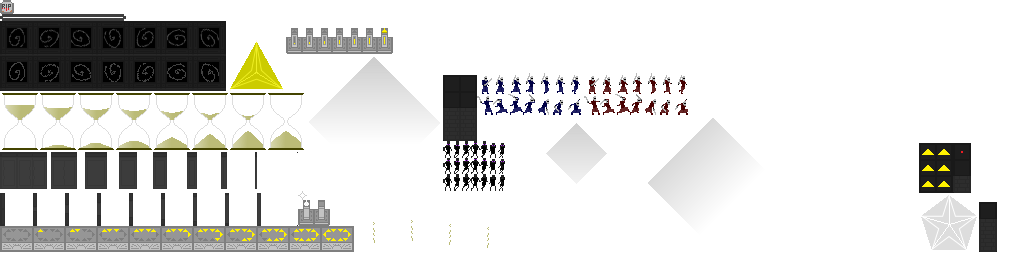
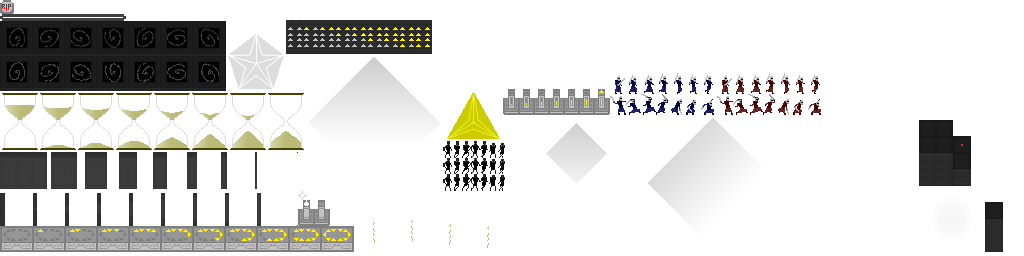
Added new graphics like a new carpet and different pedestal lights.

diff --git a/core/src/com/logicbytez/sanctuary/Assets.java b/core/src/com/logicbytez/sanctuary/Assets.java
@@ -24,7 +24,7 @@ public final class Assets{
 	public static TextureRegion texture_Altar, texture_Column, texture_Door, texture_Eidolon, texture_Gravestone, texture_HealthIndicator;
 	public static TextureRegion texture_Hourglass, texture_Sand, texture_HudCrystal, texture_HudSunstone;
 	public static TextureRegion texture_PadButton, texture_PadDiagonal, texture_PadOutline, texture_PadStraight;
-	public static TextureRegion texture_PauseBar, texture_PedestalCrystal, texture_PedestalStone, texture_PlayerBlue, texture_PlayerRed, texture_Portal;
+	public static TextureRegion texture_PauseBar, texture_PedestalCrystal, texture_PedestalCrystalLight, texture_PedestalStone, texture_PlayerBlue, texture_PlayerRed, texture_Portal;
 	public static TiledMap room_Antechamber_Up, room_Antechamber_Down, room_Antechamber_Left, room_Antechamber_Right, room_Sanctuary;
 	public static TiledMap room_Pedestal_Up, room_Pedestal_Down, room_Pedestal_Left, room_Pedestal_Right;
 
@@ -62,6 +62,7 @@ public final class Assets{
 		texture_PadStraight = atlas.findRegion("pad_straight");
 		texture_PauseBar = atlas.findRegion("pause_bar");
 		texture_PedestalCrystal = atlas.findRegion("pedestal_crystal");
+		texture_PedestalCrystalLight = atlas.findRegion("pedestal_crystal_light");
 		texture_PedestalStone = atlas.findRegion("pedestal_stone");
 		texture_PlayerBlue = atlas.findRegion("player_blue");
 		texture_PlayerRed = atlas.findRegion("player_red");

diff --git a/core/src/com/logicbytez/sanctuary/game/entities/objects/Pedestal_Crystal.java b/core/src/com/logicbytez/sanctuary/game/entities/objects/Pedestal_Crystal.java
@@ -7,7 +7,8 @@ import com.logicbytez.sanctuary.game.GameScreen;
 import com.logicbytez.sanctuary.game.entities.Entity;
 
 public class Pedestal_Crystal extends Entity{
-	boolean crystal = true;
+	private boolean crystal = true;
+	private Sprite light;
 
 	//creates the pedestal by setting up its data
 	public Pedestal_Crystal(GameScreen game, MapObject object){
@@ -17,6 +18,8 @@ public class Pedestal_Crystal extends Entity{
 		collisionBox = new Rectangle(box.x + 8, box.y + 8, box.width / 2, box.height / 2);
 		sprite = new Sprite(animation.getKeyFrame(0));
 		sprite.setPosition(collisionBox.x, collisionBox.y);
+		light = new Sprite(Assets.texture_PedestalCrystalLight);
+		light.setPosition(collisionBox.x - light.getRegionWidth() / 2.5f, collisionBox.y - light.getRegionHeight() / 8);
 	}
 
 	//removes the crystal from the pedestal and gives it to the player
@@ -25,7 +28,13 @@ public class Pedestal_Crystal extends Entity{
 			Assets.sound_Crystal.play();
 			crystal = false;
 			game.getHud().addCrystal(true);
+			light = null;
 			sprite.setRegion(animation.getKeyFrame(1));
 		}
+	}
+
+	//returns the sprite for the light
+	public Sprite getLight(){
+		return light;
 	}
 }

diff --git a/core/src/com/logicbytez/sanctuary/game/GameScreen.java b/core/src/com/logicbytez/sanctuary/game/GameScreen.java
@@ -19,6 +19,7 @@ import com.logicbytez.sanctuary.Assets;
 import com.logicbytez.sanctuary.Main;
 import com.logicbytez.sanctuary.game.labyrinth.Labyrinth;
 import com.logicbytez.sanctuary.game.entities.Entity;
+import com.logicbytez.sanctuary.game.entities.objects.Pedestal_Crystal;
 import com.logicbytez.sanctuary.game.entities.Eidolon;
 import com.logicbytez.sanctuary.game.entities.players.Player;
 import com.logicbytez.sanctuary.game.input.Touchpad;
@@ -144,6 +145,11 @@ public class GameScreen implements Screen{
 				sprite.draw(batch);
 				if(entity.getClass() == Player.class){
 					((Player)entity).getHealthIndicator().getSprite().draw(batch);
+				}else if(entity.getClass() == Pedestal_Crystal.class){
+					Sprite light = ((Pedestal_Crystal)entity).getLight();
+					if(light != null){
+						light.draw(batch);
+					}
 				}
 			}
 		}

diff --git a/core/src/com/logicbytez/sanctuary/game/labyrinth/Room.java b/core/src/com/logicbytez/sanctuary/game/labyrinth/Room.java
@@ -26,7 +26,7 @@ public class Room{
 			doorAmount++;
 			doors[side] = '1';
 			map = Assets.hallways.get(convertBinaryToDecimal(doors));
-			if(map.getLayers().get("foreground") != null){
+			if(map.getLayers().get(2).getName().equals("foreground")){
 				hasForeground = true;
 			}
 		}
@@ -70,8 +70,9 @@ public class Room{
 				map = Assets.room_Antechamber_Left;
 			}
 			break;
-		case CRYSTAL_PEDESTAL_ROOM:
 		case SUNSTONE_PEDESTAL_ROOM:
+			hasForeground = true;
+		case CRYSTAL_PEDESTAL_ROOM:
 			switch(decimal){
 			case 8:
 				map = Assets.room_Pedestal_Up;

diff --git a/core/src/com/logicbytez/sanctuary/game/labyrinth/Labyrinth.java b/core/src/com/logicbytez/sanctuary/game/labyrinth/Labyrinth.java
@@ -69,8 +69,7 @@ public class Labyrinth{
 		updateCurrentRoom(0, 0);
 		/*System.out.println("Crystals Not Generated: " + stoneAmount);
 		System.out.println("Stones Not Generated: " + stoneAmount);
-		System.out.println("Rooms Not Generated: " + roomAmount);
-		System.out.println("Number of Rooms: " + rooms.size);*/
+		System.out.println("Rooms Not Generated: " + roomAmount + "Out Of" + rooms.size);*/
 	}
 
 	//adds a new room to an adjacent one
